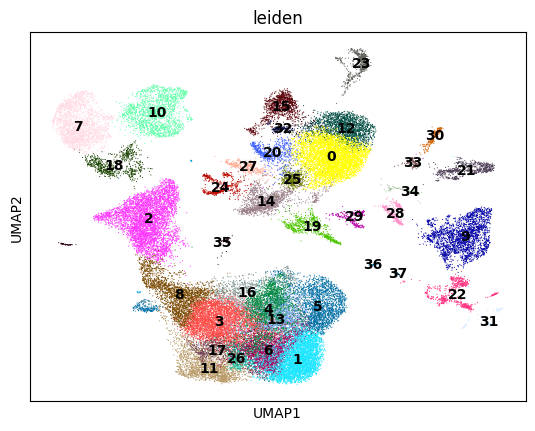
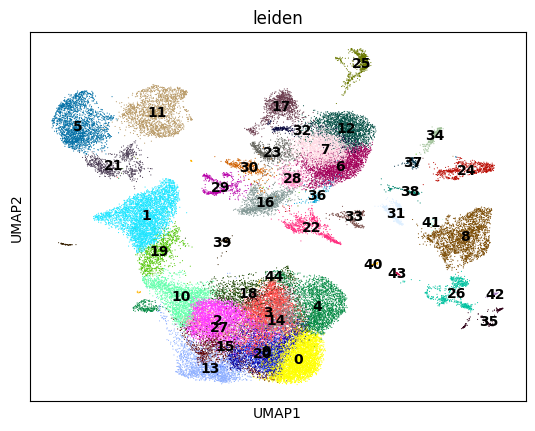
update clusters after doublet detection

diff --git a/README.md b/README.md
@@ -234,11 +234,10 @@ After running `DoubletDetection`, predicted doublets and doublet scores were sto
 
 The results were visualized using UMAP, colored by both prediction and score:
 
-![Doublet Detection UMAP](figures/umap_adata_with_doublet_scores_doublets.png)
+![Doublet Detection UMAP](figures/umap_doubletScores_neurog2_doublets.png)
 
 
-## Clustering after Doublet Detection using 
-
+## Clustering after Doublet Detection using with increased resolution to split for doublet clusters
 
 ![UMAP DOUBLET DETECTION CLUSTERS](figures/umap_ddClusters.png)
 
